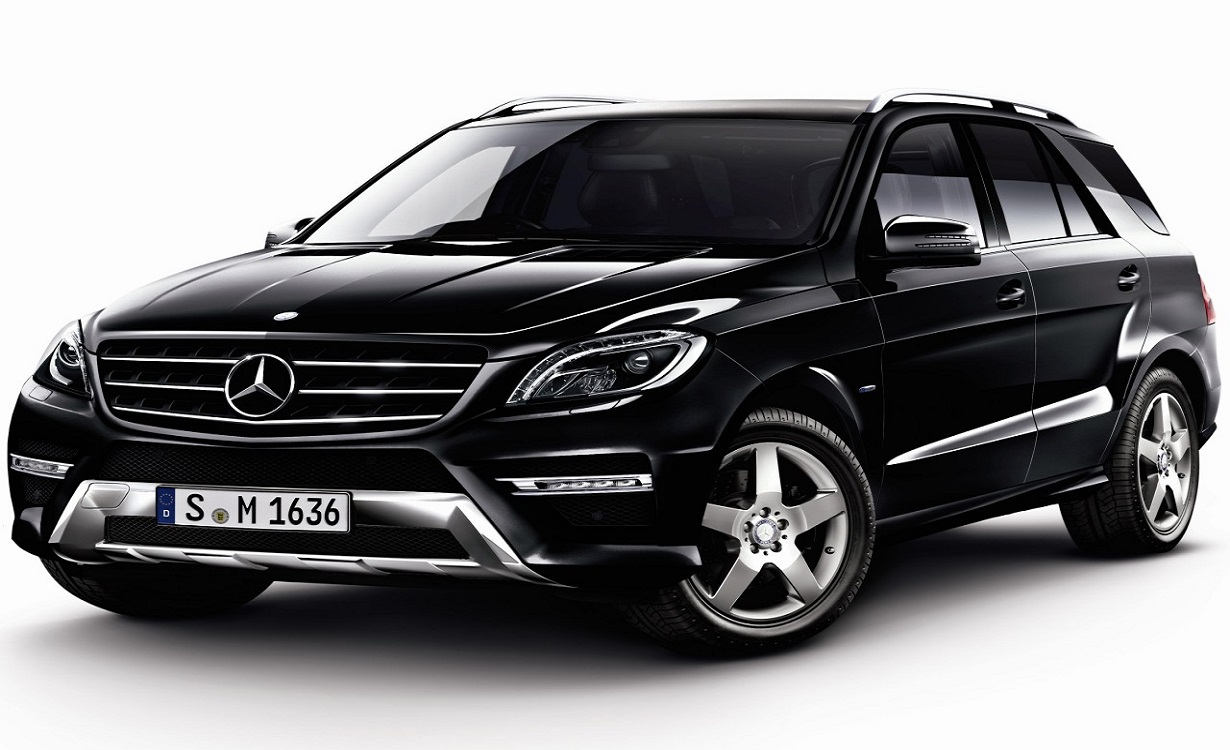
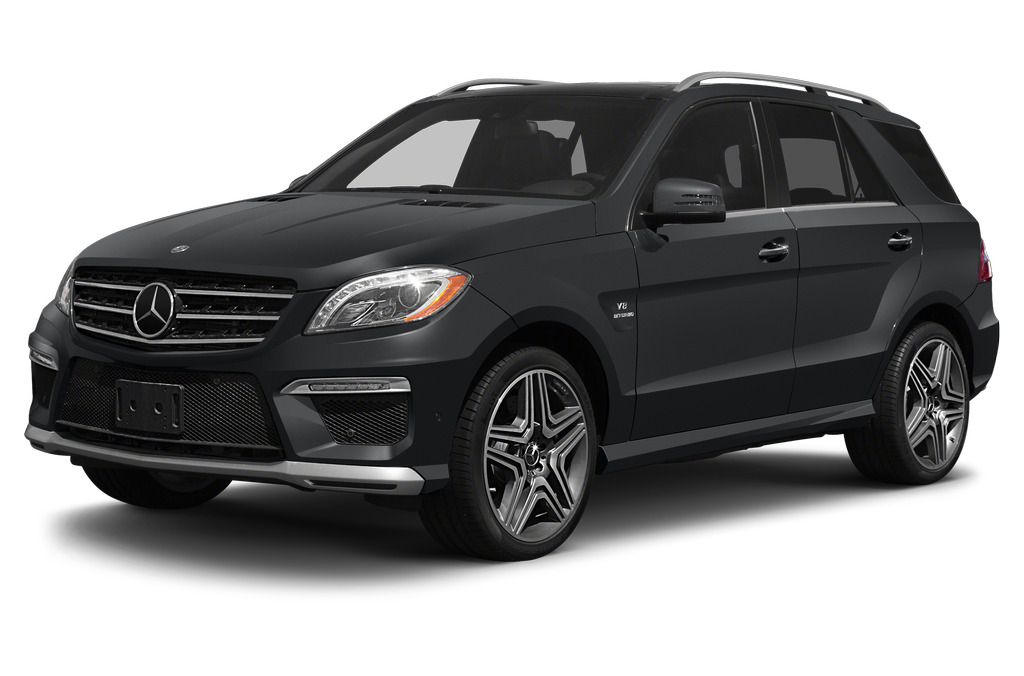
Update: changed some photos to use visually appealing ones

diff --git a/client/src/components/CallToAction.css b/client/src/components/CallToAction.css
@@ -1,6 +1,7 @@
 .cta-section {
     position: relative;
     background-size: cover;
+ 
     background-position: center;
     height: 300px;
     display: flex;
@@ -44,7 +45,6 @@
     border: none;
     text-decoration: none;
     padding: 0.8rem 1.5rem;
-    color: #000;
     font-weight: bold;
     cursor: pointer;
     border-radius: 4px;
@@ -52,7 +52,7 @@
   }
   .cta-btn-link{
     text-decoration: none;
-    color: #000;
+    color: #fcfcfc;
   }
   
   .cta-btn:hover {

diff --git a/client/src/components/ReserveForm.css b/client/src/components/ReserveForm.css
@@ -81,11 +81,10 @@ select:focus {
 
 .link-no-underline {
   color: #1b81c6;
-  text-decoration: none;
 }
 
 .link-no-underline:hover {
-  text-decoration: underline;
+  text-decoration: none;
 }
 
 /* Responsive for tablets and below */
